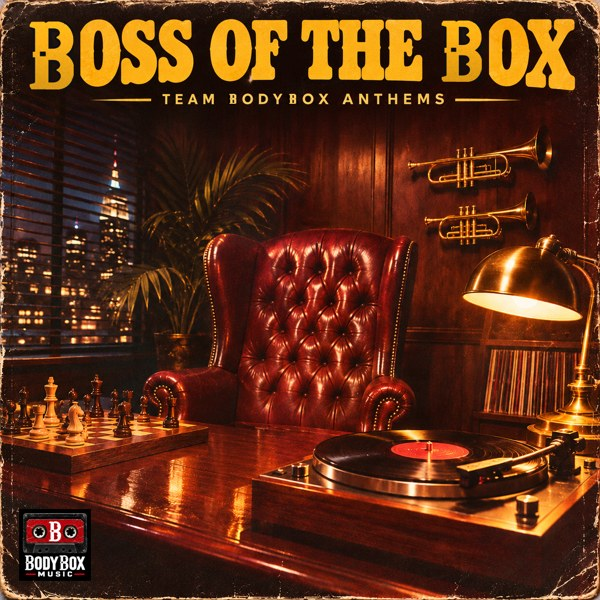
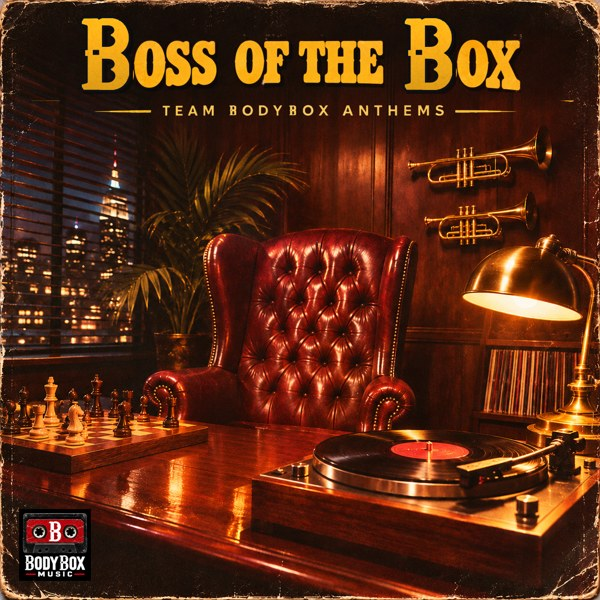
Music: Boss of the Box final cover
Claude-Session: https://claude.ai/code/session_017vtcceZtinFcmhavL52LDN

diff --git a/music/index.html b/music/index.html
@@ -320,7 +320,7 @@ const GROUPS = [
  ]}
 ];
 const ALL = GROUPS.flatMap(g=>g.sets);
-const COVER = {"audio/keep-doing-great-things.mp3":"covers/kdgt.jpg","audio/stay-calm.mp3":"covers/stay-calm.jpg","audio/heavy-weights-light-plates.mp3":"covers/hwlp.jpg","audio/heavy-weights-light-plates-comp-anthem.mp4":"covers/hwlp-comp.jpg","audio/started-in-a-garage.mp4":"covers/garage.jpg","audio/team-bodybox.mp4":"covers/teambodybox.jpg","audio/run-mix-pt-1-warm-up.mp4":"covers/runmix-1.jpg?v=2","audio/run-mix-pt-2-settle-in.mp4":"covers/runmix-2.jpg?v=2","audio/s-h-i-i-t.mp4":"covers/shiit-1.jpg","audio/s-h-i-i-t-dont-stop-the-work.mp4":"covers/shiit-5.jpg","audio/tighten-up.mp4":"covers/tighten-up.jpg","audio/smooth-moves.mp4":"covers/smooth-moves.jpg","audio/rest-day.mp4":"covers/rest-day.jpg","audio/rest-day-take-it-easy.mp4":"covers/take-it-easy.jpg?v=2","audio/swing-it-body-box-class.mp4":"covers/swing-it.jpg","audio/i-pushed-the-heart-swing-set-remix.mp4":"covers/pushed-the-heart.jpg","audio/we-take-this-serious.mp4":"covers/we-take-this-serious.jpg?v=2","audio/new-era.mp4":"covers/new-era.jpg","audio/stronger-every-day.mp4":"covers/stronger-every-day.jpg","audio/feel-the-burn.mp4":"covers/feel-the-burn.jpg?v=2","audio/under-the-bar.mp4":"covers/under-the-bar.jpg?v=3","audio/boss-of-the-box.mp4":"covers/boss-of-the-box.jpg"};
+const COVER = {"audio/keep-doing-great-things.mp3":"covers/kdgt.jpg","audio/stay-calm.mp3":"covers/stay-calm.jpg","audio/heavy-weights-light-plates.mp3":"covers/hwlp.jpg","audio/heavy-weights-light-plates-comp-anthem.mp4":"covers/hwlp-comp.jpg","audio/started-in-a-garage.mp4":"covers/garage.jpg","audio/team-bodybox.mp4":"covers/teambodybox.jpg","audio/run-mix-pt-1-warm-up.mp4":"covers/runmix-1.jpg?v=2","audio/run-mix-pt-2-settle-in.mp4":"covers/runmix-2.jpg?v=2","audio/s-h-i-i-t.mp4":"covers/shiit-1.jpg","audio/s-h-i-i-t-dont-stop-the-work.mp4":"covers/shiit-5.jpg","audio/tighten-up.mp4":"covers/tighten-up.jpg","audio/smooth-moves.mp4":"covers/smooth-moves.jpg","audio/rest-day.mp4":"covers/rest-day.jpg","audio/rest-day-take-it-easy.mp4":"covers/take-it-easy.jpg?v=2","audio/swing-it-body-box-class.mp4":"covers/swing-it.jpg","audio/i-pushed-the-heart-swing-set-remix.mp4":"covers/pushed-the-heart.jpg","audio/we-take-this-serious.mp4":"covers/we-take-this-serious.jpg?v=2","audio/new-era.mp4":"covers/new-era.jpg","audio/stronger-every-day.mp4":"covers/stronger-every-day.jpg","audio/feel-the-burn.mp4":"covers/feel-the-burn.jpg?v=2","audio/under-the-bar.mp4":"covers/under-the-bar.jpg?v=3","audio/boss-of-the-box.mp4":"covers/boss-of-the-box.jpg?v=2"};
 const thumb = (t,id) => COVER[t[1]] ? '<div class="art th photo"><img src="'+COVER[t[1]]+'" alt=""></div>' : '<div class="art th" style="--g:'+grad(id)+'"><img src="tape.png" alt=""></div>';
 const HUE = {run:"#d62828,#5b0b0b",shiit:"#ff5f1f,#7a1300",toning:"#ff6fa8,#7d1d4f",rest:"#5b7cfa,#1b2560",grooves:"#ffb703,#7a3d00",anthems:"#d62828,#111",newera:"#b14cff,#2d0b5a",yoga:"#2ec4b6,#0a3d3a",hiit:"#f72585,#3a0b5a",originals:"#e63946,#2b2b2b",chill:"#4cc9f0,#16325c","hype-mix":"#ff1e1e,#3a0000",rnb:"#c77dff,#3c096c",hiphop:"#f4a261,#4a2511",rap:"#adb5bd,#141414",instrumental:"#06d6a0,#073b4c",satclass:"#ef476f,#3d0a1a","sunday-reset":"#90be6d,#1f3a14",search:"#8e8e93,#2c2c2e"};
 const esc = s => String(s).replace(/[&<>"']/g,c=>({"&":"&amp;","<":"&lt;",">":"&gt;",'"':"&quot;","'":"&#39;"}[c]));
